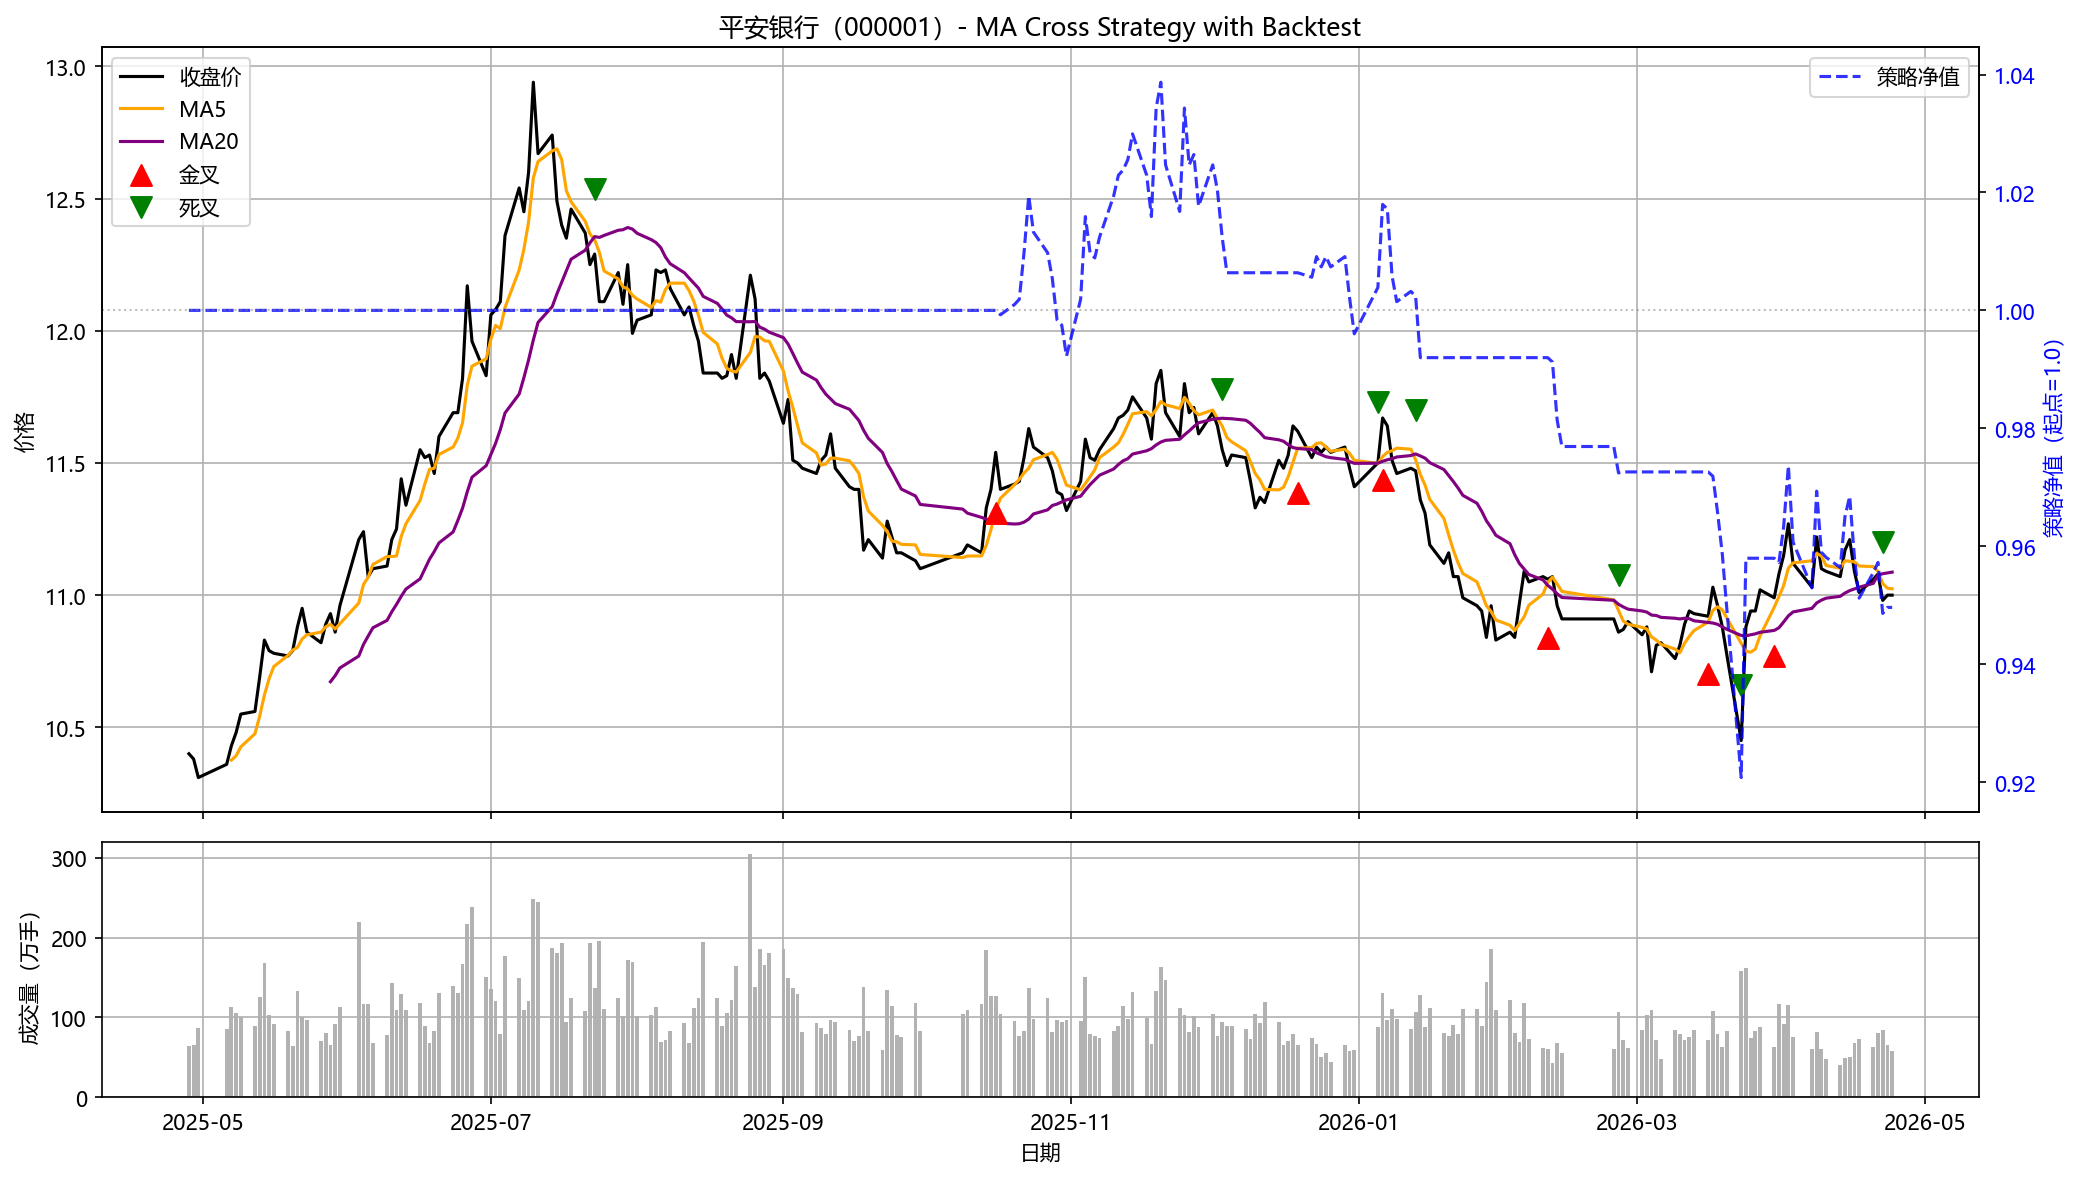
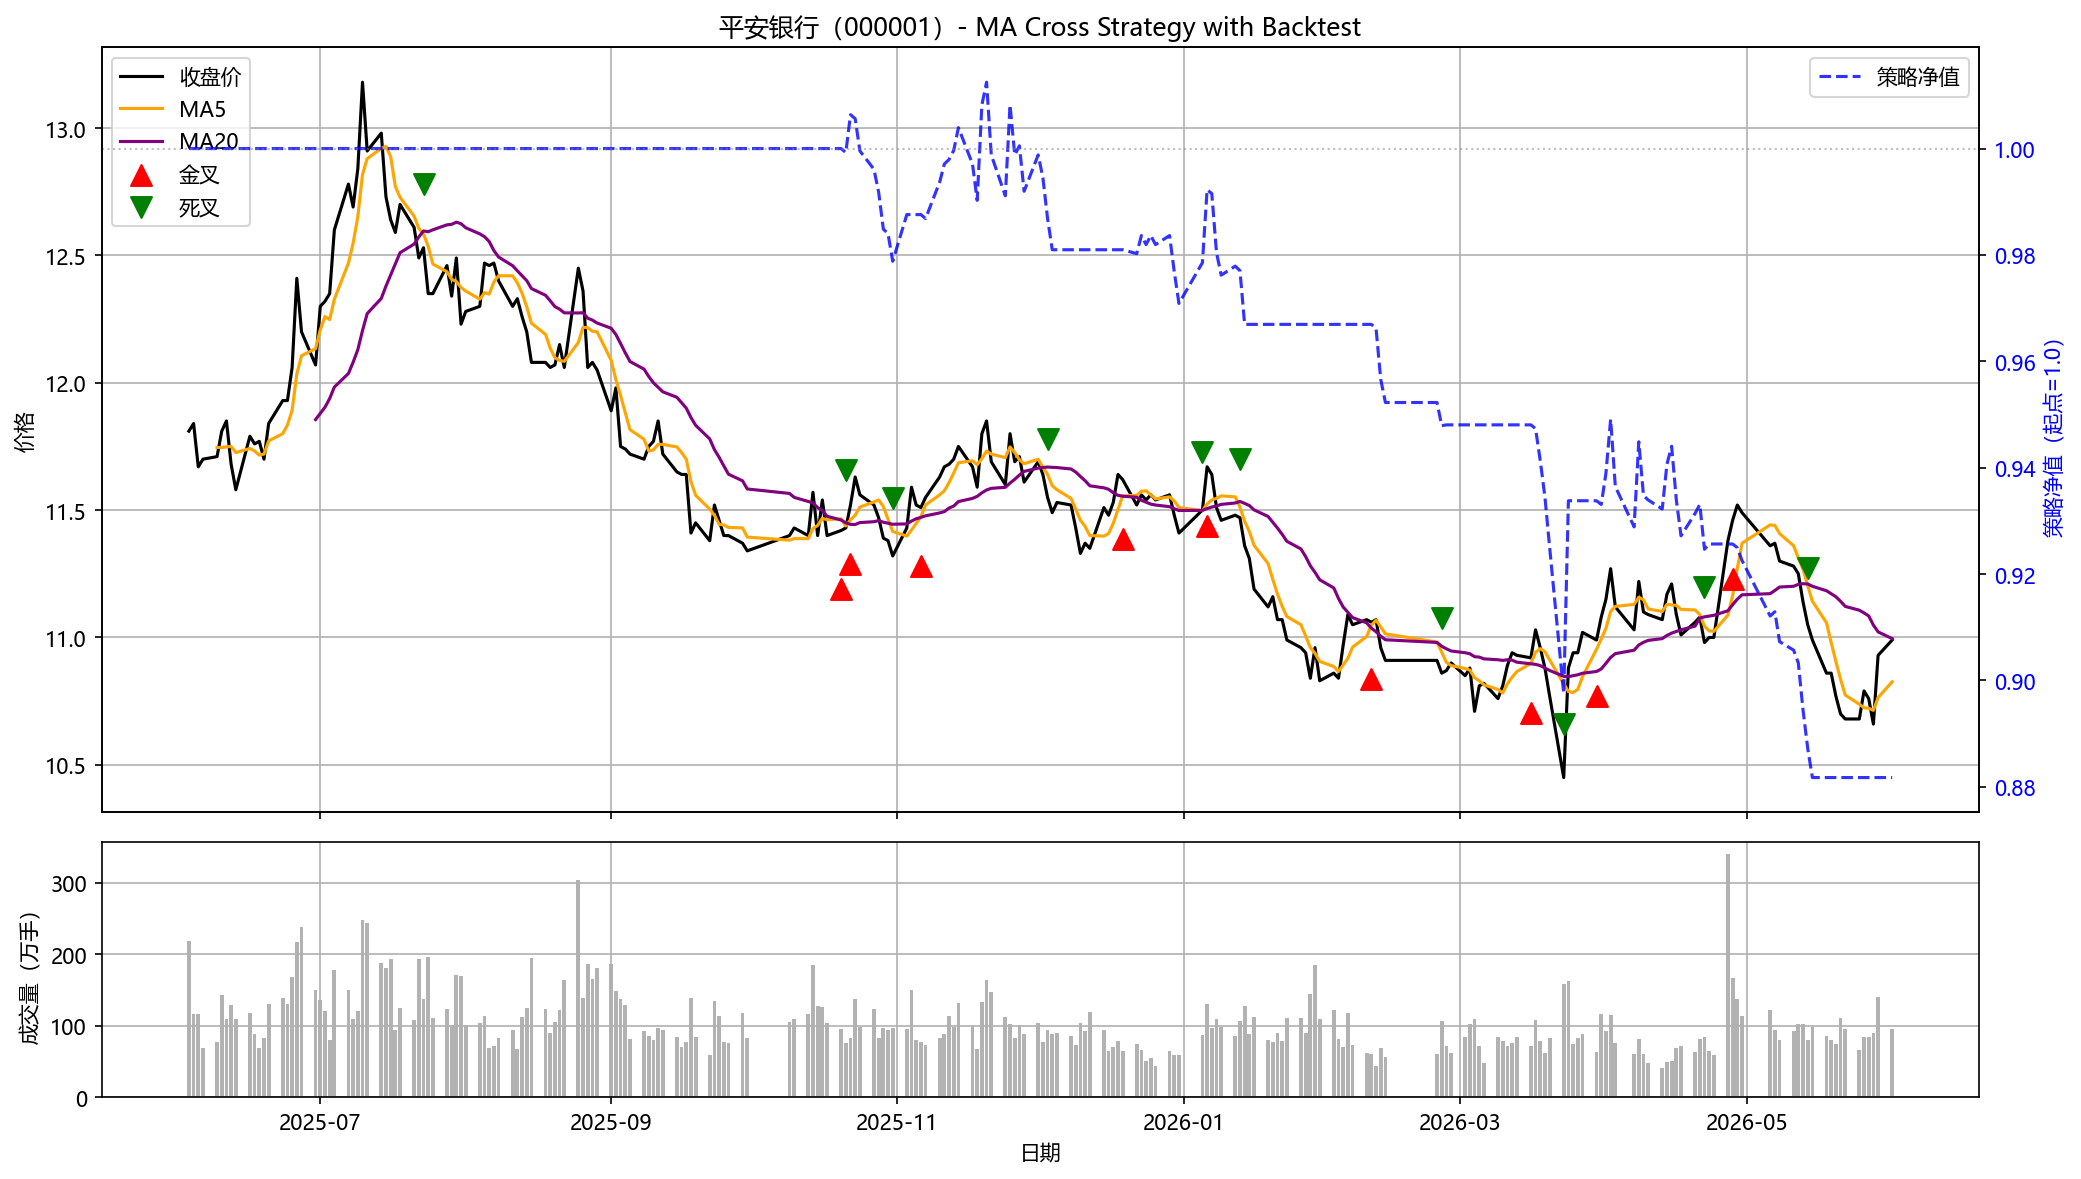
docs: update README baseline and note unadjusted data

diff --git a/README.md b/README.md
@@ -17,7 +17,7 @@ The chart above shows Pingan Bank (000001) over the past year:
 ## 📁 Project Structure
 quant_start/
 ├── main.py                  # Entry point: orchestrates the pipeline
-├── data_loader.py           # Data layer: fetch from akshare + local CSV cache
+├── data_loader.py           # Data layer: fetch from tushare + local CSV cache
 ├── signals.py               # Signal layer: MA computation + cross detection
 ├── visualization.py         # Plot layer: dual-subplot chart generation
 ├── requirements.txt         # Project dependencies
@@ -28,7 +28,7 @@ quant_start/
 └── README.md
 
 The project follows the **Single Responsibility Principle** — each module does one thing:
-- Want to switch data source (akshare → Wind)? Only touch `data_loader.py`.
+- Want to switch data source? Only touch `data_loader.py` — verified: this project migrated from akshare to tushare touching only this single file, downstream modules untouched.
 - Want to add new indicators (MACD, RSI)? Only touch `signals.py`.
 - Want to redesign the chart? Only touch `visualization.py`.
 
@@ -58,7 +58,7 @@ python main.py
 ```
 
 The pipeline will:
-1. Load past year's daily data of stock `000001` (Pingan Bank) — from local CSV if cached, otherwise fetch from akshare
+1. Load past year's daily data of stock `000001` (Pingan Bank) — from local CSV if cached, otherwise fetch from tushare
 2. Compute MA5 and MA20 moving averages
 3. Detect golden cross and death cross signals
 4. Print signal dates with closing prices to the terminal
@@ -168,7 +168,7 @@ These five metrics are the most common evaluation criteria in the mainstream ind
 - **`profit_loss_ratio`** — average win / |average loss|.  
   Combined with the `win_rate` metric, it measures how big the wins are relative to the losses — not directly a "risk-reward ratio" (which would be Sharpe / Calmar / Sortino). Is this strategy worthy? Does it perform well? Typically, we can tolerate low `win_rate` when `profit_loss_ratio` is high. Additionally, a strategy with low win rate AND low profit-loss ratio is garbage.
 
-  In this MA-cross backtest on 000001.SZ, the strategy showed `win_rate` = 33.33% and `profit_loss_ratio` = 0.52 — a textbook "low win rate + low profit-loss ratio = garbage profile". Root cause: MA-cross is inherently trend-following, but the market regime in 2025-2026 for this stock was range-bound with a downward drift — strategy-market regime mismatch.
+  In this MA-cross backtest on 000001.SZ, the strategy showed `win_rate` = 22.22% and `profit_loss_ratio` = 0.44 — a textbook "low win rate + low profit-loss ratio = garbage profile". Root cause: MA-cross is inherently trend-following, but the market regime in 2025-2026 for this stock was range-bound with a downward drift — strategy-market regime mismatch.
 
 - **`num_trades`** — frequency of trading.  
   This metric counts the total number of complete round-trip trades.
@@ -191,7 +191,7 @@ df["golden_cross"] = (
 ### Local Cache Layer
 
 To decouple development from network dependency (especially when working across borders), data fetching is wrapped in a cache layer:
-- First run: fetches from akshare, saves to local CSV
+- First run: fetches from tushare, saves to local CSV
 - Subsequent runs: reads directly from CSV (no network needed)
 - Use `force_refresh=True` to bypass cache
 
@@ -206,8 +206,9 @@ The volume subplot uses `plt.subplots()` with `sharex=True` to keep both panels 
 ## ⚠️ Known Limitations
 
 - **MA cross signals are weak indicators**. They generate frequent false signals in sideways markets and lag in trending markets. This project is for learning purposes — **do not use it for actual trading**.
-- The data source `akshare` is suitable for personal research only. Production-grade quantitative systems use Wind, level-2 feeds, or proprietary data sources.
+- The data source `tushare` is suitable for personal research only. Production-grade quantitative systems use Wind, level-2 feeds, or proprietary data sources.
 - Currently only supports a single stock at a time. Multi-stock support, backtesting, and risk metrics (Sharpe, max drawdown, win rate) are planned for future versions.
+- Backtesting currently uses unadjusted price data due to free-tier limitations of Tushare. Forward-adjusted (qfq) data is the standard correct choice for backtesting, eliminating price distortion from abrupt gaps on ex-dividend and ex-rights dates. Data migration to forward-adjusted pricing is scheduled after upgrading to a paid subscription tier.
 
 ## 📝 License
 